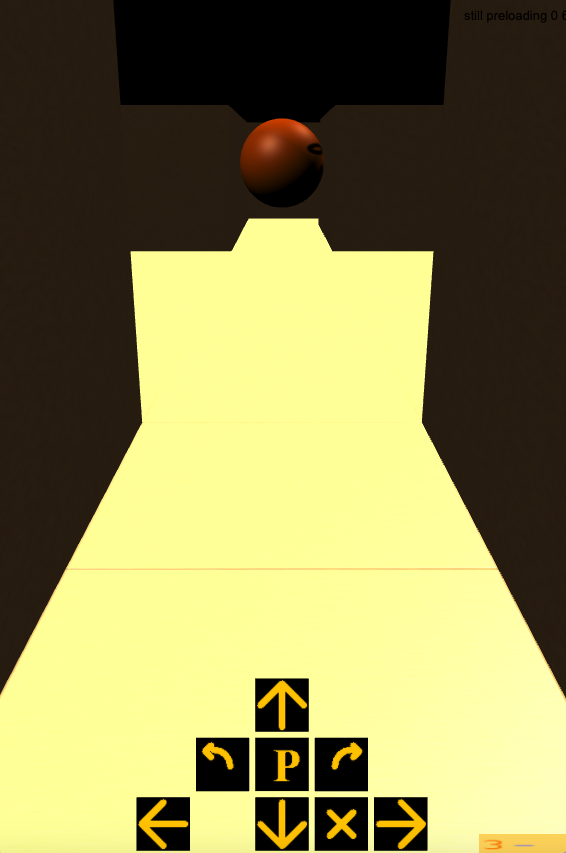
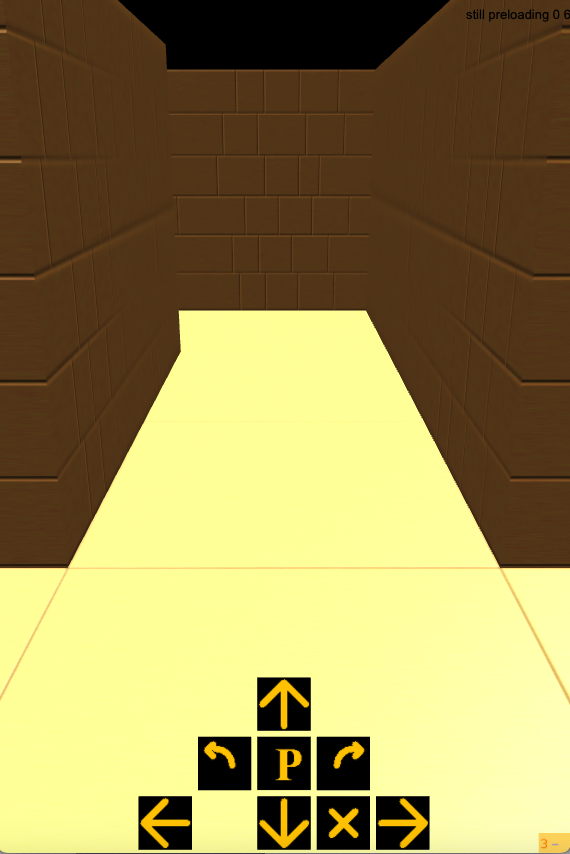
Ground textures for theme dungeon. Sub theme 'dungeon-art'.

diff --git a/docs/tcp-22.html b/docs/tcp-22.html
@@ -190,6 +190,9 @@ w3-container: HTML container with 16px left and right padding (Container Class)
                         </div>
                     </div>
                 </div>
+            </div>
+            <!-- second w3-row-->
+            <div class="w3-row-padding w3-padding-16">
                 <!-- Dungeons-->
                 <div class="w3-third">
                     <div class="w3-card-2">
@@ -198,8 +201,8 @@ w3-container: HTML container with 16px left and right padding (Container Class)
                             <div class="w3-container w3-center">
                                 <img src="Maze-D-Preview.png" style="width:100%">
                             </div>
-                            <p>A maze with several rooms connected with corridors. Find the hidden item.
-                                Uses the theme 'dungeon' which displays massive walls and a ceiling.
+                            <p>A maze with several rooms connected with corridors. Collect all diamonds.
+                                Uses the theme 'dungeon' which displays massive walls and a ceiling with simple wood textures.
                             </p>
                             <select class="w3-select  " id="sel_sceneBox3">
                                 <option value="maze/Maze-D-80x25.txt">D 80x25</option>
@@ -210,6 +213,31 @@ w3-container: HTML container with 16px left and right padding (Container Class)
                             </button>
                             <button class=" w3-button  w3-round w3-khaki "
                                     onclick="launchMazeScene(true,'sel_sceneBox3','dungeon')">Launch VR
+                            </button>
+                            <p></p>
+                        </div>
+                    </div>
+                </div>
+                <div class="w3-third">
+                    <div class="w3-card-2">
+                        <div class="w3-container">
+                            <h3>Dungeon</h3>
+                            <div class="w3-container w3-center">
+                                <img src="Maze-D-Preview-Art.png" style="width:100%">
+                            </div>
+                            <p>A maze with several rooms connected with corridors. Collect all diamonds.
+                                Uses a theme 'dungeon' which displays massive walls and a ceiling combined with
+                                artwork textures.
+                            </p>
+                            <select class="w3-select  " id="sel_sceneBox4">
+                                <option value="maze/Maze-D-80x25.txt">D 80x25</option>
+                            </select>
+                            <p></p>
+                            <button class=" w3-button  w3-round w3-khaki "
+                                    onclick="launchMazeScene(false,'sel_sceneBox4','dungeon-art')">Launch
+                            </button>
+                            <button class=" w3-button  w3-round w3-khaki "
+                                    onclick="launchMazeScene(true,'sel_sceneBox4','dungeon-art')">Launch VR
                             </button>
                             <p></p>
                         </div>
@@ -380,6 +408,7 @@ w3-container: HTML container with 16px left and right padding (Container Class)
                 </li>
                 <li>
                     Thanks to wovado (https://opengameart.org/content/stone-wall-1) for the stone wall textures.
+                    Thanks to cethiel (https://opengameart.org/content/tileable-bricks-ground-textures-set-1) for the ground textures.
                 </li>
             </ul>
         </div>

diff --git a/maze/src/test/java/de/yard/threed/maze/MazeTerrainTest.java b/maze/src/test/java/de/yard/threed/maze/MazeTerrainTest.java
@@ -20,6 +20,8 @@ import java.util.ArrayList;
 import java.util.List;
 
 import static de.yard.threed.maze.MazeTheme.THEME_TRADITIONAL;
+import static org.junit.jupiter.api.Assertions.assertNotNull;
+import static org.junit.jupiter.api.Assertions.assertNull;
 
 
 /**
@@ -147,39 +149,60 @@ public class MazeTerrainTest {
         terrain.visualizeGrid();
 
         SceneNode[] pillar = terrain.getPillar(new Point(5, 3));
-        Assertions.assertNull(pillar[0], "top of 5,3");
-        Assertions.assertNull(pillar[1], "right of 5,3");
-        Assertions.assertNotNull(pillar[2], "center of 5,3");
+        assertNull(pillar[0], "top of 5,3");
+        assertNull(pillar[1], "right of 5,3");
+        assertNotNull(pillar[2], "center of 5,3");
 
         pillar = terrain.getPillar(new Point(3, 2));
-        Assertions.assertNull(pillar[0], "top of 3,2");
-        Assertions.assertNull(pillar[1], "right of 3,2");
-        Assertions.assertNull(pillar[2], "center of 3,2");
+        assertNull(pillar[0], "top of 3,2");
+        assertNull(pillar[1], "right of 3,2");
+        assertNull(pillar[2], "center of 3,2");
 
         pillar = terrain.getPillar(new Point(4, 2));
-        Assertions.assertNull(pillar[0], "top of 4,2");
-        Assertions.assertNotNull(pillar[1], "right of 4,2");
-        Assertions.assertNotNull(pillar[2], "center of 4,2");
+        assertNull(pillar[0], "top of 4,2");
+        assertNotNull(pillar[1], "right of 4,2");
+        assertNotNull(pillar[2], "center of 4,2");
 
         pillar = terrain.getPillar(new Point(5, 2));
-        Assertions.assertNotNull(pillar[0], "top of 5,2");
-        Assertions.assertNotNull(pillar[1], "right of 5,2");
-        Assertions.assertNull(pillar[2], "center of 5,2");
+        assertNotNull(pillar[0], "top of 5,2");
+        assertNotNull(pillar[1], "right of 5,2");
+        assertNull(pillar[2], "center of 5,2");
 
         pillar = terrain.getPillar(new Point(6, 2));
-        Assertions.assertNull(pillar[0], "top of 6,2");
-        Assertions.assertNull(pillar[1], "right of 6,2");
-        Assertions.assertNotNull(pillar[2], "center of 6,2");
+        assertNull(pillar[0], "top of 6,2");
+        assertNull(pillar[1], "right of 6,2");
+        assertNotNull(pillar[2], "center of 6,2");
 
 
     }
 
     @Test
-    public void testTerrain() {
-        MazeTraditionalModelFactory mf = (MazeTraditionalModelFactory) mazeTheme.getMazeModelFactory();
+    public void testTerrainTraditional() {
+        // leads to traditional
+        MazeTheme mz = MazeTheme.buildFromIdentifier("xyz");
+        MazeTraditionalModelFactory mf = (MazeTraditionalModelFactory) mz.getMazeModelFactory();
         MazeTraditionalTerrain terrain = new MazeTraditionalTerrain(new MazeLayout(new ArrayList<Point>(), new ArrayList<Point>(), null, 3, 6, new ArrayList<Point>()),mf);
         terrain.addGridElement(mf.buildWall(1, MazeTraditionalTerrain.STRAIGHTWALLMODE_FULL), 0, 0, 0);
         SceneNode wall = terrain.getNode().getTransform().getChild(0).getSceneNode();
         TestUtils.assertVector3(new Vector3(-MazeDimensions.GRIDSEGMENTSIZE, 0, 2.5f * MazeDimensions.GRIDSEGMENTSIZE), wall.getTransform().getPosition(), "wallpos");
     }
+
+    @Test
+    public void testTerrainDungeon() {
+        MazeTheme mz = MazeTheme.buildFromIdentifier("dungeon");
+        MazeDungeonModelFactory mf = (MazeDungeonModelFactory) mz.getMazeModelFactory();
+        MazeDungeonTerrain terrain = new MazeDungeonTerrain(new MazeLayout(new ArrayList<Point>(), new ArrayList<Point>(), null, 3, 6, new ArrayList<Point>()),mf);
+        assertNull(mf.wallnormalmap);
+        assertNotNull(mf.wallNormal);
+    }
+
+    @Test
+    public void testTerrainDungeonArt() {
+        MazeTheme mz = MazeTheme.buildFromIdentifier("dungeon-art");
+        MazeDungeonModelFactory mf = (MazeDungeonModelFactory) mz.getMazeModelFactory();
+        MazeDungeonTerrain terrain = new MazeDungeonTerrain(new MazeLayout(new ArrayList<Point>(), new ArrayList<Point>(), null, 3, 6, new ArrayList<Point>()),mf);
+        assertNull(mf.wallnormalmap);
+        assertNotNull(mf.wallNormal);
+    }
+
 }

diff --git a/maze/src/main/java/de/yard/threed/maze/MazeDungeonModelFactory.java b/maze/src/main/java/de/yard/threed/maze/MazeDungeonModelFactory.java
@@ -2,31 +2,44 @@ package de.yard.threed.maze;
 
 import de.yard.threed.engine.Material;
 import de.yard.threed.engine.Texture;
+import de.yard.threed.engine.apps.WoodenToyFactory;
 
 /**
  *
  */
 public class MazeDungeonModelFactory extends MazeModelFactory {
 
-    public Texture stoneWallDiffuse;
-    public Texture stoneWallNormal;
-    public Material stoneWallMaterial;
+    public Texture wallDiffuse;
+    public Texture wallNormal;
+    public Material wallMaterial;
 
-    public MazeDungeonModelFactory(MazeTheme settings) {
+    public MazeDungeonModelFactory(MazeTheme settings, boolean art) {
         super(settings);
-        loadTextures();
+        loadTextures(art);
     }
 
     public Material getGroundmaterial() {
         return groundmaterial;
     }
 
-    private void loadTextures() {
+    private void loadTextures(boolean art) {
 
-        stoneWallDiffuse = Texture.buildBundleTexture("maze", "textures/wovado/stone_wall02-diffuse_map.jpg");
-        stoneWallNormal = Texture.buildBundleTexture("maze", "textures/wovado/stone_wall02-normal_map.jpg");
-        //stoneWallMaterial = Material.buildPhongMaterialWithNormalMap(stoneWallDiffuse);
-        // normalmap seems to have no visual effect.
-        stoneWallMaterial = Material.buildPhongMaterialWithNormalMap(stoneWallDiffuse, stoneWallNormal);
+        if (art) {
+            wallDiffuse = Texture.buildBundleTexture("maze", "textures/wovado/stone_wall02-diffuse_map.jpg");
+            wallNormal = Texture.buildBundleTexture("maze", "textures/wovado/stone_wall02-normal_map.jpg");
+            //stoneWallMaterial = Material.buildPhongMaterialWithNormalMap(stoneWallDiffuse);
+            // normalmap seems to have no visual effect.
+            wallMaterial = Material.buildPhongMaterialWithNormalMap(wallDiffuse, wallNormal);
+            groundmaterial = Material.buildPhongMaterialWithNormalMap(Texture.buildBundleTexture("maze", "textures/cethiel/Ground_02.jpg"),
+                    Texture.buildBundleTexture("maze", "textures/cethiel/Ground_02_Nrm.jpg"));
+
+        }else{
+            wallDiffuse = buildTexture("textures/gimp/wood/BucheMedium.png");
+            wallNormal = Texture.buildNormalMap(new WoodenToyFactory().buildWallNormalMap(6).image);
+            wallMaterial = Material.buildPhongMaterialWithNormalMap(wallDiffuse, wallNormal);
+            groundmaterial = Material.buildPhongMaterialWithNormalMap(buildTexture("textures/gimp/wood/BucheHell.png"),
+                    Texture.buildNormalMap(MazeModelFactory.buildEdgeNormalmap().image));
+
+        }
     }
 }

diff --git a/maze/src/main/java/de/yard/threed/maze/MazeTheme.java b/maze/src/main/java/de/yard/threed/maze/MazeTheme.java
@@ -19,8 +19,10 @@ public class MazeTheme {
     public boolean ambilight = false;
     public static final int THEME_ID_TRADITIONAL = 2;
     public static final int THEME_ID_DUNGEON = 3;
+    public static final int THEME_ID_DUNGEON_ART = 4;
     public static final String THEME_TRADITIONAL = "traditional";
     public static final String THEME_DUNGEON = "dungeon";
+    public static final String THEME_DUNGEON_ART = "dungeon-art";
     // Theme THEME_REALWOOD was an idea based on real 'jenga' texture "textures/realwood/Wall.png". But without normalmap etc.
     // its just not complete. (See history of MazeModelFactory).
     //public static final int THEME_REALWOOD = 3;
@@ -47,7 +49,10 @@ public class MazeTheme {
                 this.mazeModelFactory = new MazeTraditionalModelFactory(this);
                 break;
             case THEME_ID_DUNGEON:
-                this.mazeModelFactory = new MazeDungeonModelFactory(this);
+                this.mazeModelFactory = new MazeDungeonModelFactory(this, false);
+                break;
+            case THEME_ID_DUNGEON_ART:
+                this.mazeModelFactory = new MazeDungeonModelFactory(this,true);
                 break;
             default:
                 throw new RuntimeException("unknown theme");
@@ -79,6 +84,9 @@ public class MazeTheme {
         if (ident != null && ident.equals(THEME_DUNGEON)) {
             return new MazeTheme(THEME_ID_DUNGEON);
         }
+        if (ident != null && ident.equals(THEME_DUNGEON_ART)) {
+            return new MazeTheme(THEME_ID_DUNGEON_ART);
+        }
         return new MazeTheme(THEME_ID_TRADITIONAL);
     }
 
@@ -98,6 +106,8 @@ public class MazeTheme {
             case THEME_ID_TRADITIONAL:
                 return new MazeTraditionalTerrain(layout, (MazeTraditionalModelFactory) mazeModelFactory);
             case THEME_ID_DUNGEON:
+                return new MazeDungeonTerrain(layout, (MazeDungeonModelFactory) mazeModelFactory);
+            case THEME_ID_DUNGEON_ART:
                 return new MazeDungeonTerrain(layout, (MazeDungeonModelFactory) mazeModelFactory);
             default:
                 throw new RuntimeException("unknown theme");

diff --git a/maze/src/main/java/de/yard/threed/maze/MazeModelFactory.java b/maze/src/main/java/de/yard/threed/maze/MazeModelFactory.java
@@ -184,15 +184,16 @@ public class MazeModelFactory implements ModelBuilderRegistry {
                 wallnormalmap[4] = Texture.buildNormalMap(new WoodenToyFactory().buildWallNormalMap(6).image);
                 break;
             case MazeTheme.THEME_ID_DUNGEON:
-                walltexture = buildTexture("textures/gimp/wood/BucheHell.png");
+            case MazeTheme.THEME_ID_DUNGEON_ART:
+                //walltexture = buildTexture("textures/gimp/wood/BucheHell.png");
                 pillarmaterial = Material.buildLambertMaterial(buildTexture("textures/gimp/wood/BucheDunkel.png"));
                 sokobanboxgeo = ShapeGeometry.buildBox(settings.sokobanboxsize, settings.sokobanboxsize, settings.sokobanboxsize, null);
                 sokobanboxmaterial = Material.buildLambertMaterial(buildTexture("textures/gimp/wood/BucheMedium.png"));
                 //22.3.17: Wandmaterial auch fuer Boden statt Ground.png
-                groundmaterial = Material.buildPhongMaterialWithNormalMap(buildTexture("textures/gimp/wood/BucheHell.png"),
-                        Texture.buildNormalMap(MazeModelFactory.buildEdgeNormalmap().image));
-                wallnormalmap = new Texture[1];
-                wallnormalmap[0] = Texture.buildNormalMap(new WoodenToyFactory().buildWallNormalMap(6).image);
+                //groundmaterial = Material.buildPhongMaterialWithNormalMap(buildTexture("textures/gimp/wood/BucheHell.png"),
+                //        Texture.buildNormalMap(MazeModelFactory.buildEdgeNormalmap().image));
+                //wallnormalmap = new Texture[1];
+                //wallnormalmap[0] = Texture.buildNormalMap(new WoodenToyFactory().buildWallNormalMap(6).image);
 
                 break;
             default:
@@ -200,7 +201,7 @@ public class MazeModelFactory implements ModelBuilderRegistry {
         }
     }
 
-    private Texture buildTexture(String s) {
+    public Texture buildTexture(String s) {
         return Texture.buildBundleTexture("data", s);
     }
 

diff --git a/maze/src/main/java/de/yard/threed/maze/MazeDungeonTerrain.java b/maze/src/main/java/de/yard/threed/maze/MazeDungeonTerrain.java
@@ -12,6 +12,8 @@ import de.yard.threed.engine.platform.common.SimpleGeometryBuilder;
 /**
  * 3D visualization of a maze. This is a dungeon grid where
  * - A wall completely occupies a field.
+ *
+ * For all "dungeon" themes
  * <p>
  * Also see GridState and MazeLayout.
  * <p>
@@ -136,7 +138,7 @@ public class MazeDungeonTerrain extends AbstractMazeTerrain {
         //sg = Primitives.buildBox(0.5f, 0.5f, 0.5f);
 
         //SceneNode n = new SceneNode(new Mesh(sg, mazeModelFactory.pillarmaterial));
-        SceneNode n = new SceneNode(new Mesh(sg, mazeModelFactory.stoneWallMaterial));
+        SceneNode n = new SceneNode(new Mesh(sg, mazeModelFactory.wallMaterial));
         node.attach(n);
     }
 

diff --git a/java-common/src/main/java/de/yard/threed/javacommon/Setup.java b/java-common/src/main/java/de/yard/threed/javacommon/Setup.java
@@ -69,6 +69,7 @@ public class Setup {
         //properties.put("server", "192.168.98.151:5890");
 
         properties.put("theme", "dungeon");
+        properties.put("theme", "dungeon-art");
 
         //properties.put("argv.vehiclelist","GenericRoad");
 

diff --git a/README.md b/README.md
@@ -189,6 +189,10 @@ MA46: Defer processing of newly created events in a frame cycle. Otherwise a ser
 might keep processing without giving the client the chance to catch up. 
 Occured in the sequence LOGGEDIN->JOINED->ASSEMBLED.
 
+# Credits
+
+See https://thomass171.github.io/tcp-22/tcp-22.html for credits.
+
 # Releases
 This is the release list In terms of installations to the examples hosting
 server used from https://thomass171.github.io/tcp-22/tcp-22.html. Every release contains lots of bug fixes.
